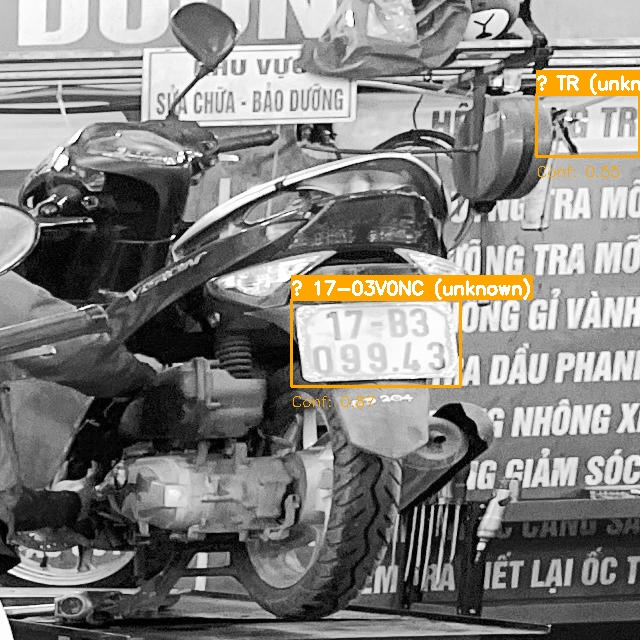
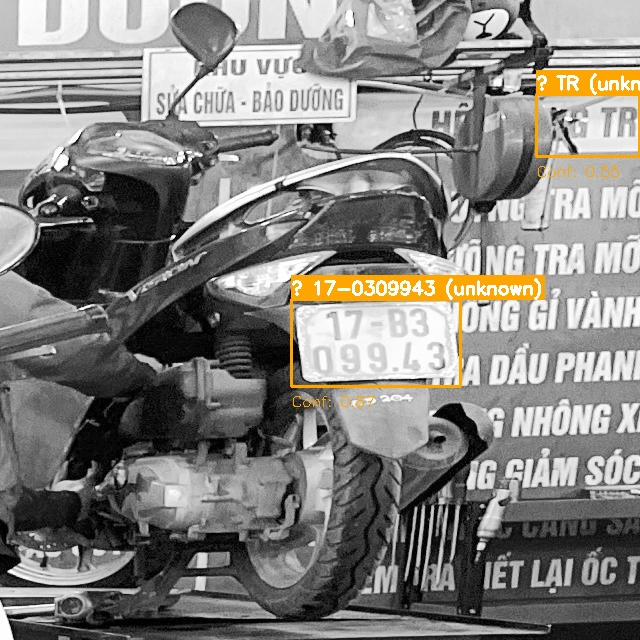
update ocr

Changed region(s): [[0.5625, 0.4062, 0.875, 0.4688]]

diff --git a/src/ocr_processor.py b/src/ocr_processor.py
@@ -31,11 +31,18 @@ class VietnameseOCR:
             processed = self.preprocess_plate_image(plate_img)
             results = self.reader.readtext(processed)
 
-            texts = [r[1] for r in sorted(results, key=lambda x: x[0][0][1]) if r[2] > 0.3]  # Giảm xuống 0.3
+        # Fallback nếu ảnh xử lý không OCR được
+            if not results:
+                results = self.reader.readtext(plate_img)
+
+            texts = [r[1] for r in sorted(results, key=lambda x: x[0][0][1]) if r[2] > 0.3]
             raw_text = ''.join(texts)
+
             cleaned = self.clean_text(raw_text)
-            print("OCR kết quả:", cleaned)
-            return cleaned if cleaned else None
+            corrected = self.correct_common_ocr_errors(cleaned)
+
+            print(f"[OCR] raw='{raw_text}', cleaned='{cleaned}', corrected='{corrected}'")
+            return corrected if corrected else None
 
         except Exception as e:
             print(f"Lỗi OCR: {e}")
@@ -44,8 +51,12 @@ class VietnameseOCR:
     def clean_text(self, text: str) -> str:
         text = text.upper()
         corrections = {
-            'O': '0', 'Q': '0', 'I': '1', 'Z': '2', 'S': '5', 'B': '8', 'G': '6'
-        }
+            'O': '0', 'Q': '0', 'D': '0',
+            'I': '1', 'L': '1',
+            'Z': '2', 'S': '5',
+            'B': '8', 'G': '6'
+}
+
         for wrong, right in corrections.items():
             text = text.replace(wrong, right)
         text = re.sub(r'[^A-Z0-9\-\.]', '', text)
@@ -55,11 +66,18 @@ class VietnameseOCR:
         return any(re.match(pattern, text) for pattern in self.patterns)
 
     def get_plate_info(self, text: str) -> Dict:
+        if not text:
+            return {
+                "valid": False,
+                "length": 0,
+                "type": "unknown"
+            }
         return {
             "valid": self.validate_plate_format(text),
             "length": len(text),
             "type": self.classify_plate_type(text)
         }
+
 
     def classify_plate_type(self, text: str) -> str:
         if re.match(r'^[0-9]{2}[A-Z]{1,2}-[0-9]{3,5}$', text):
@@ -67,3 +85,14 @@ class VietnameseOCR:
         elif re.match(r'^[0-9]{2}[A-Z]{1,2}-[0-9]{2}\.[0-9]{2}$', text):
             return "new"
         return "unknown"
+    
+    def correct_common_ocr_errors(self, text: str) -> str:
+        # Trường hợp: biển có dạng 29-Y7..., nếu nhận nhầm Y7 thành Y1 thì sửa
+         corrected = text
+
+        # Trường hợp phổ biến nhất: nhầm 7 thành 1 sau dấu "-"
+         match = re.match(r'^([0-9]{2}[A-Z]{1,2})-1([0-9]{2,4})$', text)
+         if match:
+            corrected = f"{match.group(1)}-7{match.group(2)}"
+         return corrected
+
